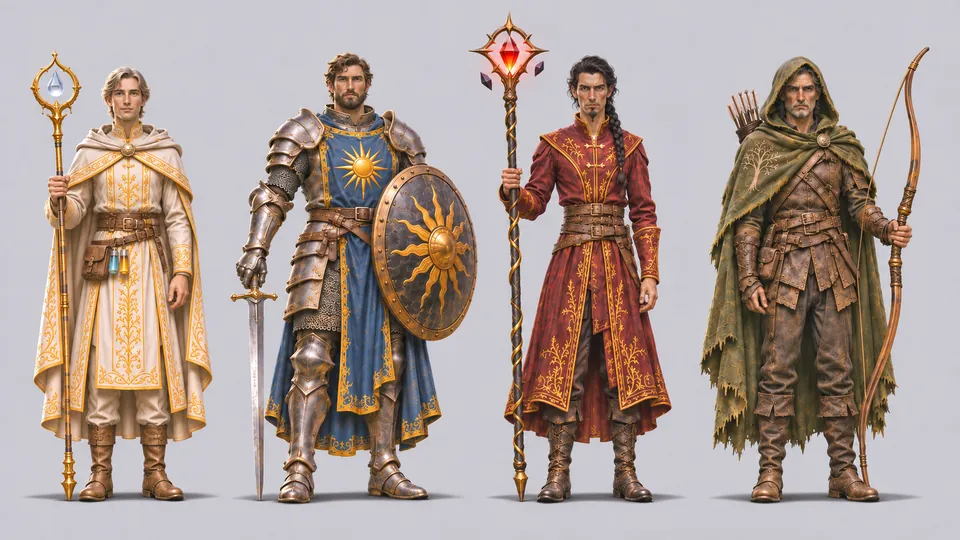
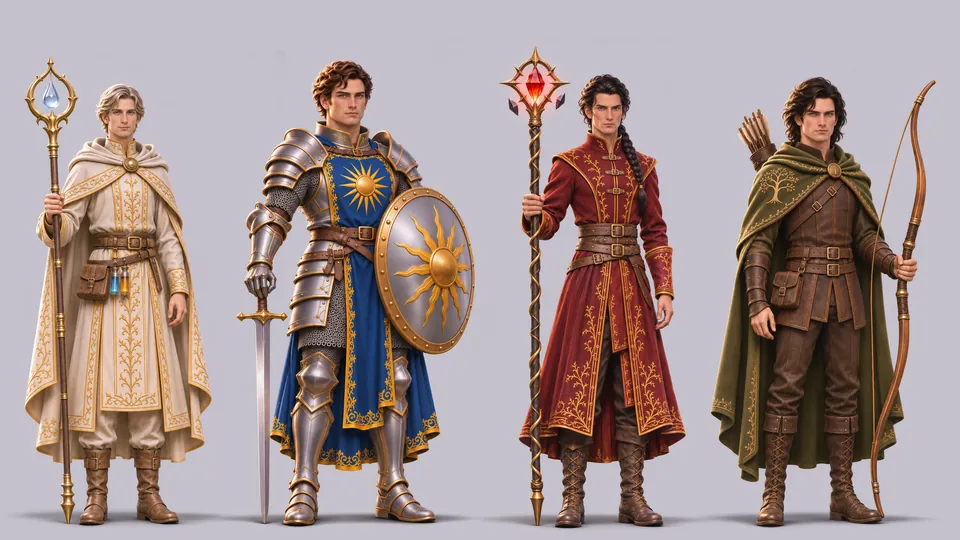
Replace the male line-up and add male job portraits

diff --git a/de/game/jobs.html b/de/game/jobs.html
@@ -39,7 +39,7 @@
 </div></section>
 <section class="wrap section ">
 <p class="lede" style="margin-bottom:56px">Jeder Job lässt sich mit einer männlichen oder weiblichen Figur spielen, und später kommen verschiedene Völker zur Auswahl dazu. In der Vertical Slice wählst du einen Job. Die Namen der Fähigkeiten sind Arbeitstitel und ändern sich, während die Jobs abgestimmt werden.</p>
-<div style="margin-bottom:72px"><div class="gallery gallery-2"><figure class="fig "><a class="lb" href="../../assets/img/full/PC-GROUP-M.webp" data-caption="Die vier Jobs mit männlichen Figuren"><img src="../../assets/img/thumb/PC-GROUP-M.webp" alt="Die vier Jobs mit männlichen Figuren" width="960" height="540" loading="lazy" decoding="async"></a><figcaption>Die vier Jobs mit männlichen Figuren</figcaption></figure><figure class="fig "><a class="lb" href="../../assets/img/full/PC-GROUP-F.webp" data-caption="Die vier Jobs mit weiblichen Figuren"><img src="../../assets/img/thumb/PC-GROUP-F.webp" alt="Die vier Jobs mit weiblichen Figuren" width="960" height="540" loading="lazy" decoding="async"></a><figcaption>Die vier Jobs mit weiblichen Figuren</figcaption></figure></div></div><div style="margin-bottom:72px"><div style="margin-bottom:22px"><div class="gallery gallery-4"><figure class="fig "><a class="lb" href="../../assets/img/full/PORTRAIT-WHITEMAGE-F.webp" data-caption="Weißmagier (weiblich)"><img src="../../assets/img/thumb/PORTRAIT-WHITEMAGE-F.webp" alt="Weißmagier (weiblich)" width="768" height="960" loading="lazy" decoding="async"></a><figcaption>Weißmagier (weiblich)</figcaption></figure><figure class="fig "><a class="lb" href="../../assets/img/full/PORTRAIT-PALADIN-F.webp" data-caption="Paladin (weiblich)"><img src="../../assets/img/thumb/PORTRAIT-PALADIN-F.webp" alt="Paladin (weiblich)" width="721" height="960" loading="lazy" decoding="async"></a><figcaption>Paladin (weiblich)</figcaption></figure><figure class="fig "><a class="lb" href="../../assets/img/full/PORTRAIT-ELEMENTALIST-F.webp" data-caption="Elementarist (weiblich)"><img src="../../assets/img/thumb/PORTRAIT-ELEMENTALIST-F.webp" alt="Elementarist (weiblich)" width="722" height="960" loading="lazy" decoding="async"></a><figcaption>Elementarist (weiblich)</figcaption></figure><figure class="fig "><a class="lb" href="../../assets/img/full/PORTRAIT-RANGER-F.webp" data-caption="Ranger (weiblich)"><img src="../../assets/img/thumb/PORTRAIT-RANGER-F.webp" alt="Ranger (weiblich)" width="722" height="960" loading="lazy" decoding="async"></a><figcaption>Ranger (weiblich)</figcaption></figure></div></div></div><div id="paladin" class="job-paladin" style="scroll-margin-top:90px"><div class="feature"><div class="feature-media"><figure class="fig "><a class="lb" href="../../assets/img/full/VW-04.webp" data-caption=""><img src="../../assets/img/thumb/VW-04.webp" alt="Paladin" width="960" height="540" loading="lazy" decoding="async"></a></figure></div><div class="feature-text"><h3>Paladin</h3><p class="job-role" style="font-size:1rem">Tank · Schwert und Schild, gesegnet</p><p>Paladine stehen vorn. Sie halten die Aufmerksamkeit eines Gegners, stecken die Schläge ein und halten den Rest der Gruppe aus der Gefahr.</p><p class="tags"><span>Bron, Drillmeister der Kaserne und des Übungsplatzes</span><span>Stahlblau, eine goldene Sonne auf einem Schild</span></p><ul class="abilities"><li>Combo strike</li><li>Shield Bash</li><li>Provoke</li><li>Holy Guard</li><li>Radiant Sweep</li></ul><div style="margin-top:22px"><blockquote class="quote"><p>„Schild hoch. Nochmal. Der Wolf wartet nicht, bis du bereit bist.“</p><cite>Bron</cite></blockquote></div></div></div></div><div id="ranger" class="job-ranger" style="scroll-margin-top:90px"><div class="feature flip"><div class="feature-media"><figure class="fig "><a class="lb" href="../../assets/img/full/VW-05.webp" data-caption=""><img src="../../assets/img/thumb/VW-05.webp" alt="Ranger" width="960" height="540" loading="lazy" decoding="async"></a></figure></div><div class="feature-text"><h3>Ranger</h3><p class="job-role" style="font-size:1rem">Fernkampf-Schaden · Bogen</p><p>Ranger kämpfen aus der Distanz, stellen Fallen und springen zurück, wenn ein Wolf zu nah kommt.</p><p class="tags"><span>Hagen, Rangermeister der Jägerhütte</span><span>Waldgrün, ein Bogen</span></p><ul class="abilities"><li>Quick Shot</li><li>Piercing Arrow</li><li>Volley</li><li>Snare Trap</li><li>Disengage</li></ul><div style="margin-top:22px"><blockquote class="quote"><p>„Ausatmen, dann loslassen. Der Wald ist geduldig. Sei geduldiger.“</p><cite>Hagen</cite></blockquote></div></div></div></div><div id="whitemage" class="job-whitemage" style="scroll-margin-top:90px"><div class="feature"><div class="feature-media"><figure class="fig "><a class="lb" href="../../assets/img/full/VW-06.webp" data-caption=""><img src="../../assets/img/thumb/VW-06.webp" alt="Weißmagier" width="960" height="541" loading="lazy" decoding="async"></a></figure></div><div class="feature-text"><h3>Weißmagier</h3><p class="job-role" style="font-size:1rem">Heiler · Stab</p><p>Weißmagier halten Leute am Leben: Heilung für einen oder alle, Heilung über Zeit, Gift reinigen und Gefallene wiederbeleben.</p><p class="tags"><span>Mira, Kräuterkundige im Kräuterhaus und am Quellschrein</span><span>Weiß und Blassgold, ein Wassertropfen</span></p><ul class="abilities"><li>Stone</li><li>Cure</li><li>Medica</li><li>Regen</li><li>Esuna</li><li>Raise</li></ul><div style="margin-top:22px"><blockquote class="quote"><p>„Halt sie auf den Beinen. Das ist die ganze Arbeit, und sie reicht.“</p><cite>Mira</cite></blockquote></div></div></div></div><div id="elementalist" class="job-elementalist" style="scroll-margin-top:90px"><div class="feature flip"><div class="feature-media"><figure class="fig "><a class="lb" href="../../assets/img/full/VW-07.webp" data-caption=""><img src="../../assets/img/thumb/VW-07.webp" alt="Elementarist" width="720" height="960" loading="lazy" decoding="async"></a></figure></div><div class="feature-text"><h3>Elementarist</h3><p class="job-role" style="font-size:1rem">Magie-Schaden · Stab</p><p>Elementaristen schleudern Feuer, Frost, Blitz und Erde: Geschosse, Kegel, gebündelte Strahlen und Stacheln aus dem Boden, dazu ein kurzer Sprung, um freizukommen.</p><p class="tags"><span>Elwyn, der Magier aus Elwyns Turm</span><span>Tiefrot, ein vierzackiger Stern</span></p><ul class="abilities"><li>Fire Bolt</li><li>Frost Cone</li><li>Lightning Beam</li><li>Earth Spike</li><li>Blink</li></ul><div style="margin-top:22px"><blockquote class="quote"><p>„Feuer ist leicht. Aufhören ist das Schwere. Pass auf die Bücher auf.“</p><cite>Elwyn</cite></blockquote></div></div></div></div></section>
+<div style="margin-bottom:72px"><div class="gallery gallery-2"><figure class="fig "><a class="lb" href="../../assets/img/full/PC-GROUP-M.webp" data-caption="Die vier Jobs mit männlichen Figuren"><img src="../../assets/img/thumb/PC-GROUP-M.webp" alt="Die vier Jobs mit männlichen Figuren" width="960" height="540" loading="lazy" decoding="async"></a><figcaption>Die vier Jobs mit männlichen Figuren</figcaption></figure><figure class="fig "><a class="lb" href="../../assets/img/full/PC-GROUP-F.webp" data-caption="Die vier Jobs mit weiblichen Figuren"><img src="../../assets/img/thumb/PC-GROUP-F.webp" alt="Die vier Jobs mit weiblichen Figuren" width="960" height="540" loading="lazy" decoding="async"></a><figcaption>Die vier Jobs mit weiblichen Figuren</figcaption></figure></div></div><div style="margin-bottom:72px"><div style="margin-bottom:22px"><div class="gallery gallery-4"><figure class="fig "><a class="lb" href="../../assets/img/full/PORTRAIT-WHITEMAGE-F.webp" data-caption="Weißmagier (weiblich)"><img src="../../assets/img/thumb/PORTRAIT-WHITEMAGE-F.webp" alt="Weißmagier (weiblich)" width="768" height="960" loading="lazy" decoding="async"></a><figcaption>Weißmagier (weiblich)</figcaption></figure><figure class="fig "><a class="lb" href="../../assets/img/full/PORTRAIT-PALADIN-F.webp" data-caption="Paladin (weiblich)"><img src="../../assets/img/thumb/PORTRAIT-PALADIN-F.webp" alt="Paladin (weiblich)" width="721" height="960" loading="lazy" decoding="async"></a><figcaption>Paladin (weiblich)</figcaption></figure><figure class="fig "><a class="lb" href="../../assets/img/full/PORTRAIT-ELEMENTALIST-F.webp" data-caption="Elementarist (weiblich)"><img src="../../assets/img/thumb/PORTRAIT-ELEMENTALIST-F.webp" alt="Elementarist (weiblich)" width="722" height="960" loading="lazy" decoding="async"></a><figcaption>Elementarist (weiblich)</figcaption></figure><figure class="fig "><a class="lb" href="../../assets/img/full/PORTRAIT-RANGER-F.webp" data-caption="Ranger (weiblich)"><img src="../../assets/img/thumb/PORTRAIT-RANGER-F.webp" alt="Ranger (weiblich)" width="722" height="960" loading="lazy" decoding="async"></a><figcaption>Ranger (weiblich)</figcaption></figure></div></div><div style="margin-bottom:22px"><div class="gallery gallery-4"><figure class="fig "><a class="lb" href="../../assets/img/full/PORTRAIT-WHITEMAGE-M.webp" data-caption="Weißmagier (männlich)"><img src="../../assets/img/thumb/PORTRAIT-WHITEMAGE-M.webp" alt="Weißmagier (männlich)" width="723" height="960" loading="lazy" decoding="async"></a><figcaption>Weißmagier (männlich)</figcaption></figure><figure class="fig "><a class="lb" href="../../assets/img/full/PORTRAIT-PALADIN-M.webp" data-caption="Paladin (männlich)"><img src="../../assets/img/thumb/PORTRAIT-PALADIN-M.webp" alt="Paladin (männlich)" width="722" height="960" loading="lazy" decoding="async"></a><figcaption>Paladin (männlich)</figcaption></figure><figure class="fig "><a class="lb" href="../../assets/img/full/PORTRAIT-ELEMENTALIST-M.webp" data-caption="Elementarist (männlich)"><img src="../../assets/img/thumb/PORTRAIT-ELEMENTALIST-M.webp" alt="Elementarist (männlich)" width="723" height="960" loading="lazy" decoding="async"></a><figcaption>Elementarist (männlich)</figcaption></figure><figure class="fig "><a class="lb" href="../../assets/img/full/PORTRAIT-RANGER-M.webp" data-caption="Ranger (männlich)"><img src="../../assets/img/thumb/PORTRAIT-RANGER-M.webp" alt="Ranger (männlich)" width="768" height="960" loading="lazy" decoding="async"></a><figcaption>Ranger (männlich)</figcaption></figure></div></div></div><div id="paladin" class="job-paladin" style="scroll-margin-top:90px"><div class="feature"><div class="feature-media"><figure class="fig "><a class="lb" href="../../assets/img/full/VW-04.webp" data-caption=""><img src="../../assets/img/thumb/VW-04.webp" alt="Paladin" width="960" height="540" loading="lazy" decoding="async"></a></figure></div><div class="feature-text"><h3>Paladin</h3><p class="job-role" style="font-size:1rem">Tank · Schwert und Schild, gesegnet</p><p>Paladine stehen vorn. Sie halten die Aufmerksamkeit eines Gegners, stecken die Schläge ein und halten den Rest der Gruppe aus der Gefahr.</p><p class="tags"><span>Bron, Drillmeister der Kaserne und des Übungsplatzes</span><span>Stahlblau, eine goldene Sonne auf einem Schild</span></p><ul class="abilities"><li>Combo strike</li><li>Shield Bash</li><li>Provoke</li><li>Holy Guard</li><li>Radiant Sweep</li></ul><div style="margin-top:22px"><blockquote class="quote"><p>„Schild hoch. Nochmal. Der Wolf wartet nicht, bis du bereit bist.“</p><cite>Bron</cite></blockquote></div></div></div></div><div id="ranger" class="job-ranger" style="scroll-margin-top:90px"><div class="feature flip"><div class="feature-media"><figure class="fig "><a class="lb" href="../../assets/img/full/VW-05.webp" data-caption=""><img src="../../assets/img/thumb/VW-05.webp" alt="Ranger" width="960" height="540" loading="lazy" decoding="async"></a></figure></div><div class="feature-text"><h3>Ranger</h3><p class="job-role" style="font-size:1rem">Fernkampf-Schaden · Bogen</p><p>Ranger kämpfen aus der Distanz, stellen Fallen und springen zurück, wenn ein Wolf zu nah kommt.</p><p class="tags"><span>Hagen, Rangermeister der Jägerhütte</span><span>Waldgrün, ein Bogen</span></p><ul class="abilities"><li>Quick Shot</li><li>Piercing Arrow</li><li>Volley</li><li>Snare Trap</li><li>Disengage</li></ul><div style="margin-top:22px"><blockquote class="quote"><p>„Ausatmen, dann loslassen. Der Wald ist geduldig. Sei geduldiger.“</p><cite>Hagen</cite></blockquote></div></div></div></div><div id="whitemage" class="job-whitemage" style="scroll-margin-top:90px"><div class="feature"><div class="feature-media"><figure class="fig "><a class="lb" href="../../assets/img/full/VW-06.webp" data-caption=""><img src="../../assets/img/thumb/VW-06.webp" alt="Weißmagier" width="960" height="541" loading="lazy" decoding="async"></a></figure></div><div class="feature-text"><h3>Weißmagier</h3><p class="job-role" style="font-size:1rem">Heiler · Stab</p><p>Weißmagier halten Leute am Leben: Heilung für einen oder alle, Heilung über Zeit, Gift reinigen und Gefallene wiederbeleben.</p><p class="tags"><span>Mira, Kräuterkundige im Kräuterhaus und am Quellschrein</span><span>Weiß und Blassgold, ein Wassertropfen</span></p><ul class="abilities"><li>Stone</li><li>Cure</li><li>Medica</li><li>Regen</li><li>Esuna</li><li>Raise</li></ul><div style="margin-top:22px"><blockquote class="quote"><p>„Halt sie auf den Beinen. Das ist die ganze Arbeit, und sie reicht.“</p><cite>Mira</cite></blockquote></div></div></div></div><div id="elementalist" class="job-elementalist" style="scroll-margin-top:90px"><div class="feature flip"><div class="feature-media"><figure class="fig "><a class="lb" href="../../assets/img/full/VW-07.webp" data-caption=""><img src="../../assets/img/thumb/VW-07.webp" alt="Elementarist" width="720" height="960" loading="lazy" decoding="async"></a></figure></div><div class="feature-text"><h3>Elementarist</h3><p class="job-role" style="font-size:1rem">Magie-Schaden · Stab</p><p>Elementaristen schleudern Feuer, Frost, Blitz und Erde: Geschosse, Kegel, gebündelte Strahlen und Stacheln aus dem Boden, dazu ein kurzer Sprung, um freizukommen.</p><p class="tags"><span>Elwyn, der Magier aus Elwyns Turm</span><span>Tiefrot, ein vierzackiger Stern</span></p><ul class="abilities"><li>Fire Bolt</li><li>Frost Cone</li><li>Lightning Beam</li><li>Earth Spike</li><li>Blink</li></ul><div style="margin-top:22px"><blockquote class="quote"><p>„Feuer ist leicht. Aufhören ist das Schwere. Pass auf die Bücher auf.“</p><cite>Elwyn</cite></blockquote></div></div></div></div></section>
 <div class="wrap"><nav class="pager" aria-label="Page"><a class="prev" href="../../de/game/combat.html"><small>Zurück</small>Kampf</a><a class="next" href="../../de/game/village-life.html"><small>Weiter</small>Dorfleben</a></nav></div>
 </main>
 

diff --git a/game/jobs.html b/game/jobs.html
@@ -39,7 +39,7 @@
 </div></section>
 <section class="wrap section ">
 <p class="lede" style="margin-bottom:56px">Every job can be played as a male or female character, and different races to choose from will come later. You pick one job in the vertical slice. Ability names are working names and will change as the jobs are tuned.</p>
-<div style="margin-bottom:72px"><div class="gallery gallery-2"><figure class="fig "><a class="lb" href="../assets/img/full/PC-GROUP-M.webp" data-caption="The four jobs as male characters"><img src="../assets/img/thumb/PC-GROUP-M.webp" alt="The four jobs as male characters" width="960" height="540" loading="lazy" decoding="async"></a><figcaption>The four jobs as male characters</figcaption></figure><figure class="fig "><a class="lb" href="../assets/img/full/PC-GROUP-F.webp" data-caption="The four jobs as female characters"><img src="../assets/img/thumb/PC-GROUP-F.webp" alt="The four jobs as female characters" width="960" height="540" loading="lazy" decoding="async"></a><figcaption>The four jobs as female characters</figcaption></figure></div></div><div style="margin-bottom:72px"><div style="margin-bottom:22px"><div class="gallery gallery-4"><figure class="fig "><a class="lb" href="../assets/img/full/PORTRAIT-WHITEMAGE-F.webp" data-caption="White Mage (female)"><img src="../assets/img/thumb/PORTRAIT-WHITEMAGE-F.webp" alt="White Mage (female)" width="768" height="960" loading="lazy" decoding="async"></a><figcaption>White Mage (female)</figcaption></figure><figure class="fig "><a class="lb" href="../assets/img/full/PORTRAIT-PALADIN-F.webp" data-caption="Paladin (female)"><img src="../assets/img/thumb/PORTRAIT-PALADIN-F.webp" alt="Paladin (female)" width="721" height="960" loading="lazy" decoding="async"></a><figcaption>Paladin (female)</figcaption></figure><figure class="fig "><a class="lb" href="../assets/img/full/PORTRAIT-ELEMENTALIST-F.webp" data-caption="Elementalist (female)"><img src="../assets/img/thumb/PORTRAIT-ELEMENTALIST-F.webp" alt="Elementalist (female)" width="722" height="960" loading="lazy" decoding="async"></a><figcaption>Elementalist (female)</figcaption></figure><figure class="fig "><a class="lb" href="../assets/img/full/PORTRAIT-RANGER-F.webp" data-caption="Ranger (female)"><img src="../assets/img/thumb/PORTRAIT-RANGER-F.webp" alt="Ranger (female)" width="722" height="960" loading="lazy" decoding="async"></a><figcaption>Ranger (female)</figcaption></figure></div></div></div><div id="paladin" class="job-paladin" style="scroll-margin-top:90px"><div class="feature"><div class="feature-media"><figure class="fig "><a class="lb" href="../assets/img/full/VW-04.webp" data-caption=""><img src="../assets/img/thumb/VW-04.webp" alt="Paladin" width="960" height="540" loading="lazy" decoding="async"></a></figure></div><div class="feature-text"><h3>Paladin</h3><p class="job-role" style="font-size:1rem">Tank · sword and shield, blessed</p><p>Paladins stand in front. They hold an enemy's attention, take the blows and keep the rest of the party out of harm's way.</p><p class="tags"><span>Bron, drill master of the Barracks and Training Yard</span><span>Steel blue, a golden sun on a shield</span></p><ul class="abilities"><li>Combo strike</li><li>Shield Bash</li><li>Provoke</li><li>Holy Guard</li><li>Radiant Sweep</li></ul><div style="margin-top:22px"><blockquote class="quote"><p>“Shield up. Again. The wolf won't wait for you to be ready.”</p><cite>Bron</cite></blockquote></div></div></div></div><div id="ranger" class="job-ranger" style="scroll-margin-top:90px"><div class="feature flip"><div class="feature-media"><figure class="fig "><a class="lb" href="../assets/img/full/VW-05.webp" data-caption=""><img src="../assets/img/thumb/VW-05.webp" alt="Ranger" width="960" height="540" loading="lazy" decoding="async"></a></figure></div><div class="feature-text"><h3>Ranger</h3><p class="job-role" style="font-size:1rem">Ranged damage · bow</p><p>Rangers fight from a distance, set traps and leap back out of reach when a wolf gets too close.</p><p class="tags"><span>Hagen, ranger master of the Hunters' Lodge</span><span>Forest green, a bow</span></p><ul class="abilities"><li>Quick Shot</li><li>Piercing Arrow</li><li>Volley</li><li>Snare Trap</li><li>Disengage</li></ul><div style="margin-top:22px"><blockquote class="quote"><p>“Breathe out, then loose. The forest is patient. Be more patient.”</p><cite>Hagen</cite></blockquote></div></div></div></div><div id="whitemage" class="job-whitemage" style="scroll-margin-top:90px"><div class="feature"><div class="feature-media"><figure class="fig "><a class="lb" href="../assets/img/full/VW-06.webp" data-caption=""><img src="../assets/img/thumb/VW-06.webp" alt="White Mage" width="960" height="541" loading="lazy" decoding="async"></a></figure></div><div class="feature-text"><h3>White Mage</h3><p class="job-role" style="font-size:1rem">Healer · staff</p><p>White Mages keep people alive: heals for one or for everyone, healing over time, cleansing poison, and raising the fallen.</p><p class="tags"><span>Mira, herbalist of the Herbalist's House and the Spring Shrine</span><span>White and pale gold, a water drop</span></p><ul class="abilities"><li>Stone</li><li>Cure</li><li>Medica</li><li>Regen</li><li>Esuna</li><li>Raise</li></ul><div style="margin-top:22px"><blockquote class="quote"><p>“Keep them standing. That is the whole job, and it is enough.”</p><cite>Mira</cite></blockquote></div></div></div></div><div id="elementalist" class="job-elementalist" style="scroll-margin-top:90px"><div class="feature flip"><div class="feature-media"><figure class="fig "><a class="lb" href="../assets/img/full/VW-07.webp" data-caption=""><img src="../assets/img/thumb/VW-07.webp" alt="Elementalist" width="720" height="960" loading="lazy" decoding="async"></a></figure></div><div class="feature-text"><h3>Elementalist</h3><p class="job-role" style="font-size:1rem">Magic damage · staff</p><p>Elementalists throw fire, frost, lightning and earth: bolts, cones, channelled beams and spikes from the ground, with a short blink to get clear.</p><p class="tags"><span>Elwyn, the mage of Elwyn's Tower</span><span>Deep red, a four-pointed star</span></p><ul class="abilities"><li>Fire Bolt</li><li>Frost Cone</li><li>Lightning Beam</li><li>Earth Spike</li><li>Blink</li></ul><div style="margin-top:22px"><blockquote class="quote"><p>“Fire is easy. Stopping is the hard part. Mind the books.”</p><cite>Elwyn</cite></blockquote></div></div></div></div></section>
+<div style="margin-bottom:72px"><div class="gallery gallery-2"><figure class="fig "><a class="lb" href="../assets/img/full/PC-GROUP-M.webp" data-caption="The four jobs as male characters"><img src="../assets/img/thumb/PC-GROUP-M.webp" alt="The four jobs as male characters" width="960" height="540" loading="lazy" decoding="async"></a><figcaption>The four jobs as male characters</figcaption></figure><figure class="fig "><a class="lb" href="../assets/img/full/PC-GROUP-F.webp" data-caption="The four jobs as female characters"><img src="../assets/img/thumb/PC-GROUP-F.webp" alt="The four jobs as female characters" width="960" height="540" loading="lazy" decoding="async"></a><figcaption>The four jobs as female characters</figcaption></figure></div></div><div style="margin-bottom:72px"><div style="margin-bottom:22px"><div class="gallery gallery-4"><figure class="fig "><a class="lb" href="../assets/img/full/PORTRAIT-WHITEMAGE-F.webp" data-caption="White Mage (female)"><img src="../assets/img/thumb/PORTRAIT-WHITEMAGE-F.webp" alt="White Mage (female)" width="768" height="960" loading="lazy" decoding="async"></a><figcaption>White Mage (female)</figcaption></figure><figure class="fig "><a class="lb" href="../assets/img/full/PORTRAIT-PALADIN-F.webp" data-caption="Paladin (female)"><img src="../assets/img/thumb/PORTRAIT-PALADIN-F.webp" alt="Paladin (female)" width="721" height="960" loading="lazy" decoding="async"></a><figcaption>Paladin (female)</figcaption></figure><figure class="fig "><a class="lb" href="../assets/img/full/PORTRAIT-ELEMENTALIST-F.webp" data-caption="Elementalist (female)"><img src="../assets/img/thumb/PORTRAIT-ELEMENTALIST-F.webp" alt="Elementalist (female)" width="722" height="960" loading="lazy" decoding="async"></a><figcaption>Elementalist (female)</figcaption></figure><figure class="fig "><a class="lb" href="../assets/img/full/PORTRAIT-RANGER-F.webp" data-caption="Ranger (female)"><img src="../assets/img/thumb/PORTRAIT-RANGER-F.webp" alt="Ranger (female)" width="722" height="960" loading="lazy" decoding="async"></a><figcaption>Ranger (female)</figcaption></figure></div></div><div style="margin-bottom:22px"><div class="gallery gallery-4"><figure class="fig "><a class="lb" href="../assets/img/full/PORTRAIT-WHITEMAGE-M.webp" data-caption="White Mage (male)"><img src="../assets/img/thumb/PORTRAIT-WHITEMAGE-M.webp" alt="White Mage (male)" width="723" height="960" loading="lazy" decoding="async"></a><figcaption>White Mage (male)</figcaption></figure><figure class="fig "><a class="lb" href="../assets/img/full/PORTRAIT-PALADIN-M.webp" data-caption="Paladin (male)"><img src="../assets/img/thumb/PORTRAIT-PALADIN-M.webp" alt="Paladin (male)" width="722" height="960" loading="lazy" decoding="async"></a><figcaption>Paladin (male)</figcaption></figure><figure class="fig "><a class="lb" href="../assets/img/full/PORTRAIT-ELEMENTALIST-M.webp" data-caption="Elementalist (male)"><img src="../assets/img/thumb/PORTRAIT-ELEMENTALIST-M.webp" alt="Elementalist (male)" width="723" height="960" loading="lazy" decoding="async"></a><figcaption>Elementalist (male)</figcaption></figure><figure class="fig "><a class="lb" href="../assets/img/full/PORTRAIT-RANGER-M.webp" data-caption="Ranger (male)"><img src="../assets/img/thumb/PORTRAIT-RANGER-M.webp" alt="Ranger (male)" width="768" height="960" loading="lazy" decoding="async"></a><figcaption>Ranger (male)</figcaption></figure></div></div></div><div id="paladin" class="job-paladin" style="scroll-margin-top:90px"><div class="feature"><div class="feature-media"><figure class="fig "><a class="lb" href="../assets/img/full/VW-04.webp" data-caption=""><img src="../assets/img/thumb/VW-04.webp" alt="Paladin" width="960" height="540" loading="lazy" decoding="async"></a></figure></div><div class="feature-text"><h3>Paladin</h3><p class="job-role" style="font-size:1rem">Tank · sword and shield, blessed</p><p>Paladins stand in front. They hold an enemy's attention, take the blows and keep the rest of the party out of harm's way.</p><p class="tags"><span>Bron, drill master of the Barracks and Training Yard</span><span>Steel blue, a golden sun on a shield</span></p><ul class="abilities"><li>Combo strike</li><li>Shield Bash</li><li>Provoke</li><li>Holy Guard</li><li>Radiant Sweep</li></ul><div style="margin-top:22px"><blockquote class="quote"><p>“Shield up. Again. The wolf won't wait for you to be ready.”</p><cite>Bron</cite></blockquote></div></div></div></div><div id="ranger" class="job-ranger" style="scroll-margin-top:90px"><div class="feature flip"><div class="feature-media"><figure class="fig "><a class="lb" href="../assets/img/full/VW-05.webp" data-caption=""><img src="../assets/img/thumb/VW-05.webp" alt="Ranger" width="960" height="540" loading="lazy" decoding="async"></a></figure></div><div class="feature-text"><h3>Ranger</h3><p class="job-role" style="font-size:1rem">Ranged damage · bow</p><p>Rangers fight from a distance, set traps and leap back out of reach when a wolf gets too close.</p><p class="tags"><span>Hagen, ranger master of the Hunters' Lodge</span><span>Forest green, a bow</span></p><ul class="abilities"><li>Quick Shot</li><li>Piercing Arrow</li><li>Volley</li><li>Snare Trap</li><li>Disengage</li></ul><div style="margin-top:22px"><blockquote class="quote"><p>“Breathe out, then loose. The forest is patient. Be more patient.”</p><cite>Hagen</cite></blockquote></div></div></div></div><div id="whitemage" class="job-whitemage" style="scroll-margin-top:90px"><div class="feature"><div class="feature-media"><figure class="fig "><a class="lb" href="../assets/img/full/VW-06.webp" data-caption=""><img src="../assets/img/thumb/VW-06.webp" alt="White Mage" width="960" height="541" loading="lazy" decoding="async"></a></figure></div><div class="feature-text"><h3>White Mage</h3><p class="job-role" style="font-size:1rem">Healer · staff</p><p>White Mages keep people alive: heals for one or for everyone, healing over time, cleansing poison, and raising the fallen.</p><p class="tags"><span>Mira, herbalist of the Herbalist's House and the Spring Shrine</span><span>White and pale gold, a water drop</span></p><ul class="abilities"><li>Stone</li><li>Cure</li><li>Medica</li><li>Regen</li><li>Esuna</li><li>Raise</li></ul><div style="margin-top:22px"><blockquote class="quote"><p>“Keep them standing. That is the whole job, and it is enough.”</p><cite>Mira</cite></blockquote></div></div></div></div><div id="elementalist" class="job-elementalist" style="scroll-margin-top:90px"><div class="feature flip"><div class="feature-media"><figure class="fig "><a class="lb" href="../assets/img/full/VW-07.webp" data-caption=""><img src="../assets/img/thumb/VW-07.webp" alt="Elementalist" width="720" height="960" loading="lazy" decoding="async"></a></figure></div><div class="feature-text"><h3>Elementalist</h3><p class="job-role" style="font-size:1rem">Magic damage · staff</p><p>Elementalists throw fire, frost, lightning and earth: bolts, cones, channelled beams and spikes from the ground, with a short blink to get clear.</p><p class="tags"><span>Elwyn, the mage of Elwyn's Tower</span><span>Deep red, a four-pointed star</span></p><ul class="abilities"><li>Fire Bolt</li><li>Frost Cone</li><li>Lightning Beam</li><li>Earth Spike</li><li>Blink</li></ul><div style="margin-top:22px"><blockquote class="quote"><p>“Fire is easy. Stopping is the hard part. Mind the books.”</p><cite>Elwyn</cite></blockquote></div></div></div></div></section>
 <div class="wrap"><nav class="pager" aria-label="Page"><a class="prev" href="../game/combat.html"><small>Previous</small>Combat</a><a class="next" href="../game/village-life.html"><small>Next</small>Village Life</a></nav></div>
 </main>
 
